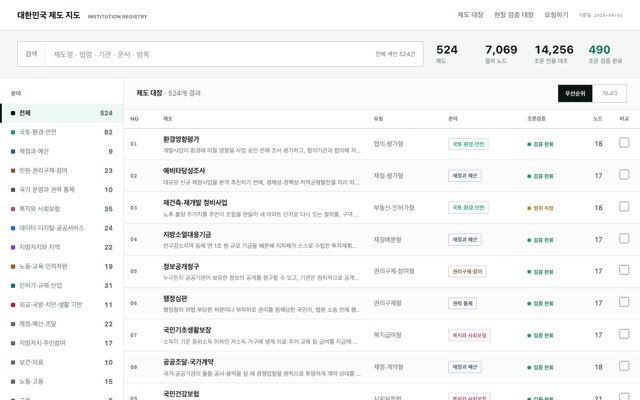
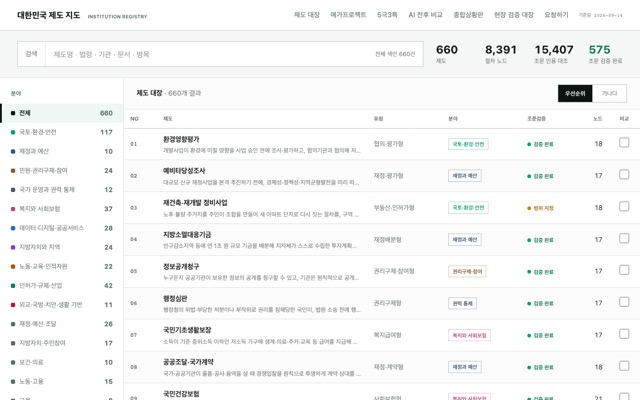
fix: 제도100 사례 보강 — 메가프로젝트·5극3특·AI 전후 비교·종합상황판까지 늘어난 현행 구성 반영, 썸네일 재생성
Claude-Session: https://claude.ai/code/session_01UzE1ZB24modLJDCrQLPeF8

diff --git a/site/case/5451653f4cddb6f2.html b/site/case/5451653f4cddb6f2.html
@@ -4,11 +4,11 @@
   <meta charset="utf-8">
   <meta name="viewport" content="width=device-width, initial-scale=1">
   <title>제도100 — 국가 제도 505개 업무구조도 웹서비스 — 모두의 공공AX</title>
-  <meta name="description" content="대한민국 주요 제도를 법령, 조직, 절차, 문서, 기한으로 분해해 제도마다 한 장의 요약 캔버스와 업무구조도(스윔레인)로 읽을 수 있게 만든 공개 웹서비스다. 100개로 시작해 현재 505개까지 늘어났다.">
+  <meta name="description" content="대한민국 주요 제도를 법령·조직·절차·문서·기한으로 분해해 제도마다 한 장의 요약 캔버스와 업무구조도로 읽게 만든 공개 웹서비스다. 백 개로 시작해 오백 개를 넘겼고, 지금은 제도 대장에 더해 메가프로젝트 공정과 5극3특 지역 구분, AI 도입 전후 비교, 종합상황판,">
   <link rel="canonical" href="https://hollobit.github.io/PAX/case/5451653f4cddb6f2.html">
   <meta property="og:type" content="article">
   <meta property="og:title" content="제도100 — 국가 제도 505개 업무구조도 웹서비스">
-  <meta property="og:description" content="대한민국 주요 제도를 법령, 조직, 절차, 문서, 기한으로 분해해 제도마다 한 장의 요약 캔버스와 업무구조도(스윔레인)로 읽을 수 있게 만든 공개 웹서비스다. 100개로 시작해 현재 505개까지 늘어났다.">
+  <meta property="og:description" content="대한민국 주요 제도를 법령·조직·절차·문서·기한으로 분해해 제도마다 한 장의 요약 캔버스와 업무구조도로 읽게 만든 공개 웹서비스다. 백 개로 시작해 오백 개를 넘겼고, 지금은 제도 대장에 더해 메가프로젝트 공정과 5극3특 지역 구분, AI 도입 전후 비교, 종합상황판,">
   <meta property="og:url" content="https://hollobit.github.io/PAX/case/5451653f4cddb6f2.html">
   <meta property="og:site_name" content="모두의 공공AX 사례 아카이브">
   <link rel="stylesheet" href="../style.css">
@@ -43,7 +43,7 @@
   <main class="case-page">
     <section class="obs-section">
       <p class="case-page__meta">공직 현장(행안부) · 공직 개인 · 기획·정책 · 2026-07-11 게시</p>
-      <p class="case-page__summary">대한민국 주요 제도를 법령, 조직, 절차, 문서, 기한으로 분해해 제도마다 한 장의 요약 캔버스와 업무구조도(스윔레인)로 읽을 수 있게 만든 공개 웹서비스다. 100개로 시작해 현재 505개까지 늘어났다.</p>
+      <p class="case-page__summary">대한민국 주요 제도를 법령·조직·절차·문서·기한으로 분해해 제도마다 한 장의 요약 캔버스와 업무구조도로 읽게 만든 공개 웹서비스다. 백 개로 시작해 오백 개를 넘겼고, 지금은 제도 대장에 더해 메가프로젝트 공정과 5극3특 지역 구분, AI 도입 전후 비교, 종합상황판, 현장 검증 대장까지 갈래가 늘었다. 각 제도 화면에 법령 기준일을 적고 개정되면 내용이 달라질 수 있다고 밝혀, 참고자료이지 유권해석이 아님을 분명히 했다.</p>
       <p class="case-page__links"><a href="https://hosungseo.github.io/korea100/" target="_blank" rel="noopener">사례 대상 바로가기</a> · <a href="https://www.threads.com/@gongpenclaw/post/DaoePfGgXdv" target="_blank" rel="noopener">원문 게시물</a> · <a href="https://gitlab.aigov.go.kr/hosung.seo/korea100_MOIS" target="_blank" rel="noopener">공공 깃랩 미러</a> · <a href="../?case=5451653f4cddb6f2">아카이브에서 보기</a></p>
     </section>
     <section class="obs-section">

diff --git a/site/case/e83a543b442722be.html b/site/case/e83a543b442722be.html
@@ -48,15 +48,15 @@
     </section>
     <section class="obs-section">
       <h2 class="obs-heading">4축 평가</h2>
-      <p>평가 데이터 없음</p>
-      <p class="obs-note"></p>
+      <div class="table-wrap"><table class="obs-table"><tr><th scope="row">AX 단계</th><td>AI-Ready</td></tr><tr><th scope="row">업무 범위</th><td>S1 Script/보조</td></tr><tr><th scope="row">업무 완결성</th><td>C0 기능 제공</td></tr><tr><th scope="row">권한(P축)</th><td>P1 산출물 생성(잠정)</td></tr><tr><th scope="row">위험도</th><td>R0 최소</td></tr><tr><th scope="row">인간 통제</th><td>해당 없음</td></tr><tr><th scope="row">증거 등급</th><td>E2 화면·서비스 확인</td></tr><tr><th scope="row">신뢰도</th><td>중간</td></tr></table></div>
+      <p class="obs-note">도구가 아니라 사내 경진대회를 알리는 한 장짜리 사이트라 Script/보조·C0이며 운영 화면을 열어 구성과 일정을 확인해 E2다. 아카이브에서 기관이 비개발자 직원을 겨냥해 바이브코딩 경진대회를 열고 학습 모임이 대회 기간 내내 받치는 구조를 공개한 첫 관측이라 제도 쪽 사례로 둔다. 쇼케이스 화면은 아직 비어 있어 산출물은 확인하지 못했다.</p>
     </section>
     <section class="obs-section">
       <h2 class="obs-heading">실무 도입 카드</h2>
       <div class="obs-cards">
         <div class="obs-card"><p class="obs-card__label">필요한 것</p><p class="obs-card__note">실행환경: 브라우저만 · 망 요건: 인터넷 필수</p></div>
         <div class="obs-card"><p class="obs-card__label">첫 3단계</p><p class="obs-card__note">① 링크 접속 → ② 내 업무 데이터로 시험 → ③ 동료와 결과 검증</p></div>
-        <div class="obs-card"><p class="obs-card__label">주의사항</p><p class="obs-card__note">성과 수치는 출처가 확인된 것만 신뢰하세요</p></div>
+        <div class="obs-card"><p class="obs-card__label">주의사항</p><p class="obs-card__note">실사용 피드백이 미확인입니다 — 도입 전 소규모 검증을 권합니다 · 성과 수치는 출처가 확인된 것만 신뢰하세요</p></div>
       </div>
       <p class="obs-note">전이 절차(보안검토→품의→배포)는 <a href="../playbook.html">전이 플레이북</a>을 참고하세요.</p>
     </section>
